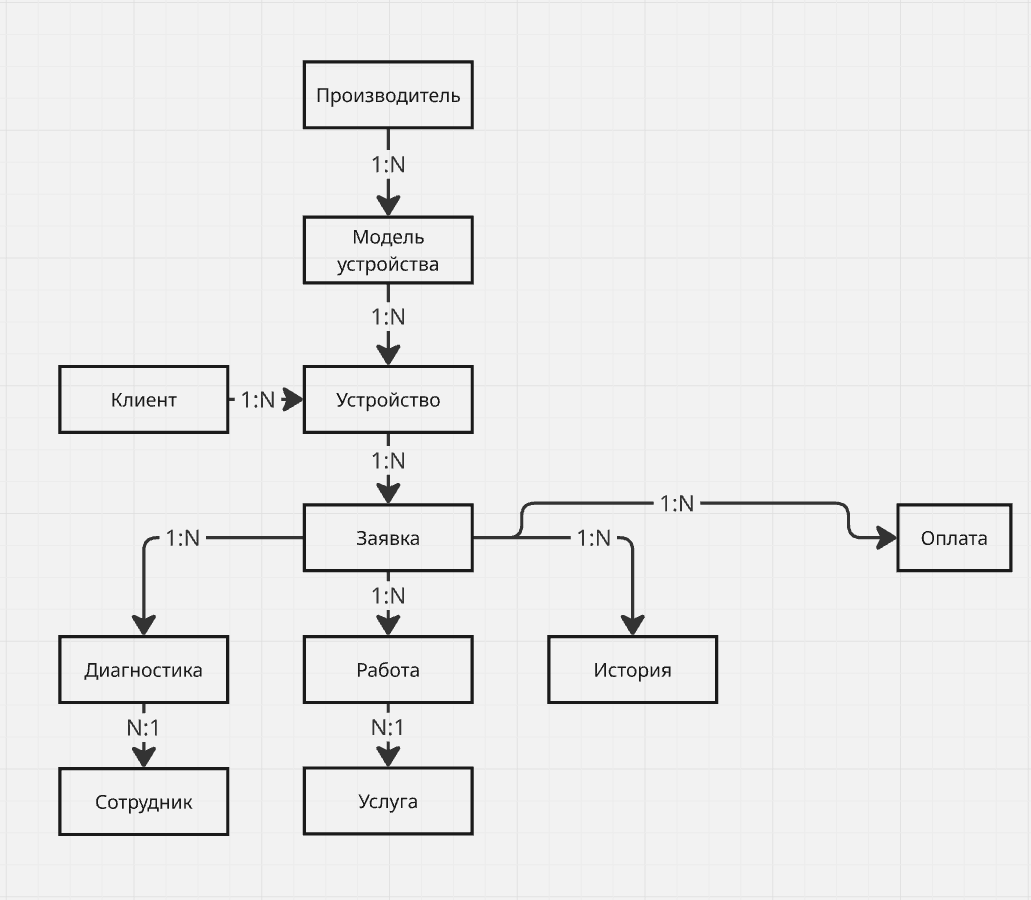
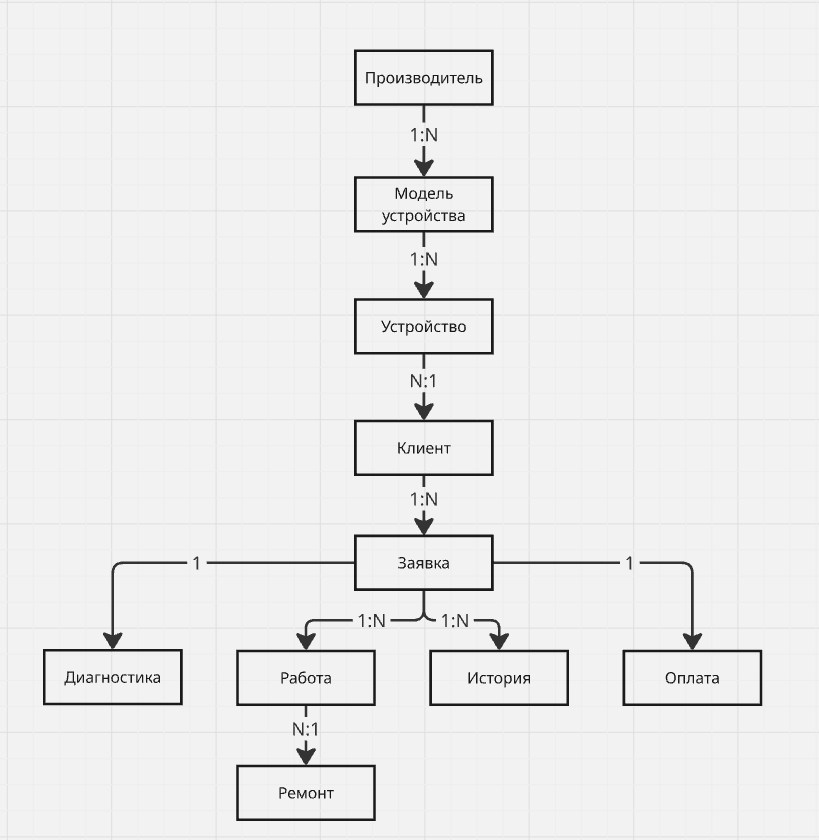
Исправлены словать терминов и концептуальная ER-модель

diff --git a/README.md b/README.md
@@ -304,26 +304,25 @@
 
 |Термин|Определение|
 |---|---|
-|**Клиент**|Лицо, обратившееся в сервисный центр для ремонта или обслуживания устройства.|
-|**Устройство**|Техника, принадлежащая клиенту и переданная в сервисный центр для диагностики, ремонта или обслуживания.|
-|**Производитель**|Компания, выпустившая устройство.|
-|**Модель устройства**|Конкретная модель устройства определённого производителя.|
-|**Заявка**|Обращение клиента в сервисный центр, зарегистрированное для выполнения ремонта или обслуживания устройства.|
-|**Статус заявки**|Текущее состояние процесса обработки заявки, например «Новая», «На диагностике», «В ремонте», «Готова», «Закрыта».|
-|**Приоритет заявки**|Степень срочности обработки заявки.|
-|**Описание неисправности**|Информация о проблеме, указанная клиентом при обращении в сервисный центр.|
-|**Диагностика**|Процесс определения неисправности, её причины и состояния устройства.|
-|**Результат диагностики**|Результат проведённой проверки устройства с указанием выявленных неисправностей и рекомендаций по ремонту.|
-|**Сотрудник**|Работник сервисного центра, участвующий в обработке заявок.|
-|**Мастер**|Сотрудник, выполняющий диагностику, ремонт и техническое обслуживание устройств.|
-|**Услуга**|Вид работы, предоставляемой сервисным центром, например диагностика, замена экрана или чистка устройства.|
-|**Работа**|Конкретная работа, выполненная в рамках определённой заявки.|
-|**Запчасть**|Компонент или материал, используемый для ремонта устройства.|
-|**Использованная запчасть**|Запчасть, фактически использованная при выполнении ремонта по конкретной заявке.|
-|**Оплата**|Факт внесения клиентом денежных средств за выполненные работы и использованные запчасти.|
-|**История заявки**|Последовательность событий и изменений, произошедших с заявкой в процессе её обработки.|
-|**Комментарий**|Дополнительная текстовая информация, относящаяся к заявке, диагностике или выполненной работе.|
-|**Уведомление**|Сообщение, информирующее клиента или сотрудника об изменении состояния или другом событии, связанном с заявкой.|
+|**Клиент**|Пользователь системы, обращающийся в сервисный центр для ремонта или обслуживания оборудования.|
+|**Администратор / оператор**|Пользователь системы, осуществляющий приём клиентов, регистрацию оборудования и заявок, а также изменение данных.|
+|**Мастер / инженер**|Пользователь системы, выполняющий диагностику оборудования, ремонтные работы и указывающий использованные запчасти.|
+|**Руководитель**|Пользователь системы, осуществляющий контроль заявок и просмотр статистики и отчётности.|
+|**Производитель**|Организация, выпустившая устройство.|
+|**Модель устройства**|Конкретная модель оборудования определённого производителя.|
+|**Устройство**|Оборудование клиента, переданное в сервисный центр для диагностики и ремонта.|
+|**Заявка**|Обращение клиента в сервисный центр, содержащее информацию об устройстве и необходимом обслуживании или ремонте.|
+|**Диагностика**|Результат проверки устройства для определения неисправности и необходимых ремонтных работ. Для одной заявки выполняется одна диагностика.|
+|**Ремонт**|Вид услуги, предоставляемого сервисным центром.|
+|**Работа**|Конкретное действие, выполненное в рамках обработки заявки. Одна заявка может включать несколько работ.|
+|**Запчасть**|Компонент или деталь, предназначенная для замены неисправной части устройства.|
+|**Использованная запчасть**|Запчасть, фактически использованная при выполнении ремонта по заявке.|
+|**Оплата**|Единый платёж клиента по заявке, включающий стоимость диагностики и выполненных работ. Для каждой заявки предусмотрена одна оплата.|
+|**История заявки**|Последовательность изменений и событий, происходящих с заявкой в процессе её обработки.|
+|**Статус заявки**|Текущее состояние заявки на определённом этапе её обработки.|
+|**Приоритет**|Степень срочности обработки заявки.|
+|**Уведомление**|Сообщение пользователю системы об изменении состояния заявки или другом значимом событии.|
+
 ### 2. Основные сущности концептуальной ER-модели
 
 Для построения концептуальной ER-модели выделены следующие основные сущности:
@@ -333,47 +332,43 @@
 3. **Производитель**
 4. **Модель устройства**
 5. **Заявка**
-6. **Статус заявки**
-7. **Приоритет заявки**
-8. **Сотрудник**
-9. **Диагностика**
-10. **Услуга**
-11. **Работа**
-12. **Запчасть**
-13. **Использованная запчасть**
-14. **Оплата**
-15. **История заявки**
-16. **Уведомление**
+6. **Диагностика**
+7. **Работа**
+8. **Ремонт**
+9. **История заявки**
+10. **Оплата**
+
 ### Связи между сущностями
 
-| Сущности                              | Кардинальность | Описание связи                                                                                                             |
-| ------------------------------------- | -------------- | -------------------------------------------------------------------------------------------------------------------------- |
-| **Производитель — Модель устройства** | **1:N**        | Один производитель может выпускать несколько моделей устройств. Каждая модель относится к одному производителю.            |
-| **Модель устройства — Устройство**    | **1:N**        | Одна модель может соответствовать нескольким конкретным устройствам. Каждое устройство относится к одной модели.           |
-| **Клиент — Устройство**               | **1:N**        | Один клиент может владеть несколькими устройствами. Каждое устройство связано с одним клиентом.                            |
-| **Устройство — Заявка**               | **1:N**        | Одно устройство может иметь несколько заявок в течение времени. Каждая заявка относится к одному устройству.               |
-| **Заявка — Диагностика**              | **1:N**        | В рамках одной заявки может проводиться одна или несколько диагностик. Каждая диагностика относится к определённой заявке. |
-| **Диагностика — Сотрудник**           | **N:1**        | Один сотрудник может выполнять несколько диагностик. Каждая диагностика выполняется одним сотрудником.                     |
-| **Заявка — Работа**                   | **1:N**        | Одна заявка может включать несколько выполненных работ. Каждая работа относится к определённой заявке.                     |
-| **Работа — Услуга**                   | **N:1**        | Один вид услуги может соответствовать множеству выполненных работ. Каждая выполненная работа относится к одной услуге.     |
-| **Заявка — История**                  | **1:N**        | Для одной заявки может существовать множество записей истории, отражающих изменения и события в процессе её обработки.     |
-| **Заявка — Оплата**                   | **N:1**        | Согласно представленной модели, несколько заявок связаны с одной оплатой.                                                  |
+| №   | Связь                             | Кардинальность |
+| --- | --------------------------------- | -------------- |
+| 1   | Производитель — Модель устройства | **1:N**        |
+| 2   | Модель устройства — Устройство    | **1:N**        |
+| 3   | Устройство — Клиент               | **N:1**        |
+| 4   | Клиент — Заявка                   | **1:N**        |
+| 5   | Заявка — Диагностика              | **1:1**        |
+| 6   | Заявка — Работа                   | **1:N**        |
+| 7   | Работа — Ремонт                   | **N:1**        |
+| 8   | Заявка — История                  | **1:N**        |
+| 9   | Заявка — Оплата                   | **1:1**        |
+
 ### Описание концептуальной ER-модели
 
-Концептуальная ER-модель системы сервисного центра и обработки заявок предназначена для представления основных объектов предметной области и связей между ними. Модель описывает процесс обработки устройства клиента от его регистрации в системе до выполнения необходимых работ и оплаты.
+Концептуальная ER-модель системы сервисного центра и обработки заявок предназначена для представления основных объектов предметной области и связей между ними. Модель описывает процесс обслуживания устройства клиента — от регистрации устройства и создания заявки до проведения диагностики, выполнения ремонта, фиксации истории обработки и оплаты.
 
-Центральной сущностью модели является **«Заявка»**, которая связывает устройство клиента с процессами диагностики, выполнения работ, ведения истории и оплаты. Каждая заявка относится к определённому устройству и содержит информацию, необходимую для организации его обслуживания или ремонта.
+Центральной сущностью модели является «Заявка», которая связывает устройство клиента с процессами диагностики, выполнения работ, ведения истории и оплаты. Каждая заявка относится к определённому устройству и содержит информацию, необходимую для организации его обслуживания или ремонта.
 
-Сущность **«Клиент»** представляет лицо, обращающееся в сервисный центр. Один клиент может иметь несколько устройств. Каждое устройство характеризуется определённой моделью, которая, в свою очередь, относится к конкретному производителю.
+Сущность «Клиент» представляет лицо, обращающееся в сервисный центр. Один клиент может иметь несколько устройств. Каждое устройство относится к определённому клиенту и характеризуется конкретной «Моделью устройства», которая, в свою очередь, относится к определённому «Производителю».
 
-Сущность **«Устройство»** представляет конкретную технику клиента, переданную на обслуживание. Одно устройство может иметь несколько заявок, если клиент обращается в сервисный центр повторно.
+Сущность «Устройство» представляет конкретную технику клиента, переданную на обслуживание. Одно устройство может иметь несколько заявок, если клиент обращается в сервисный центр повторно.
 
-В рамках заявки может проводиться **«Диагностика»**, выполняемая сотрудником сервисного центра. Также заявка может включать несколько **«Работ»**, каждая из которых относится к определённой **«Услуге»**.
+Для каждой заявки предусмотрена одна «Диагностика», в рамках которой определяется состояние устройства и характер неисправности. На основании диагностики в рамках заявки выполняется «Работа», связанная с соответствующим «Ремонтом».
 
-Для каждой заявки формируется **«История»**, позволяющая фиксировать события и изменения, связанные с процессом её обработки. Также заявка связана с сущностью **«Оплата»**, отражающей факт оплаты услуг сервисного центра.
+Сущность «История» предназначена для фиксации информации о процессе обработки заявки. Она позволяет сохранять сведения о событиях, связанных с заявкой, на протяжении её выполнения.
 
-Таким образом, модель отражает основные процессы предметной области: регистрацию клиентов и их устройств, создание заявок, проведение диагностики, выполнение работ, фиксацию истории обработки и осуществление оплаты.
+Сущность «Оплата» отражает факт оплаты по заявке. Для каждой заявки предусмотрена одна оплата, которая включает стоимость диагностики и выполненных работ.
 
+Таким образом, модель отражает основные процессы предметной области: регистрацию клиентов и их устройств, создание заявок, проведение диагностики, выполнение ремонтных работ, фиксацию истории обработки заявки и осуществление единой оплаты за выполненные работы и диагностику.
 ![concept](images/ER-model.PNG)
 
 ## Жизненный цикл основых сущностей
